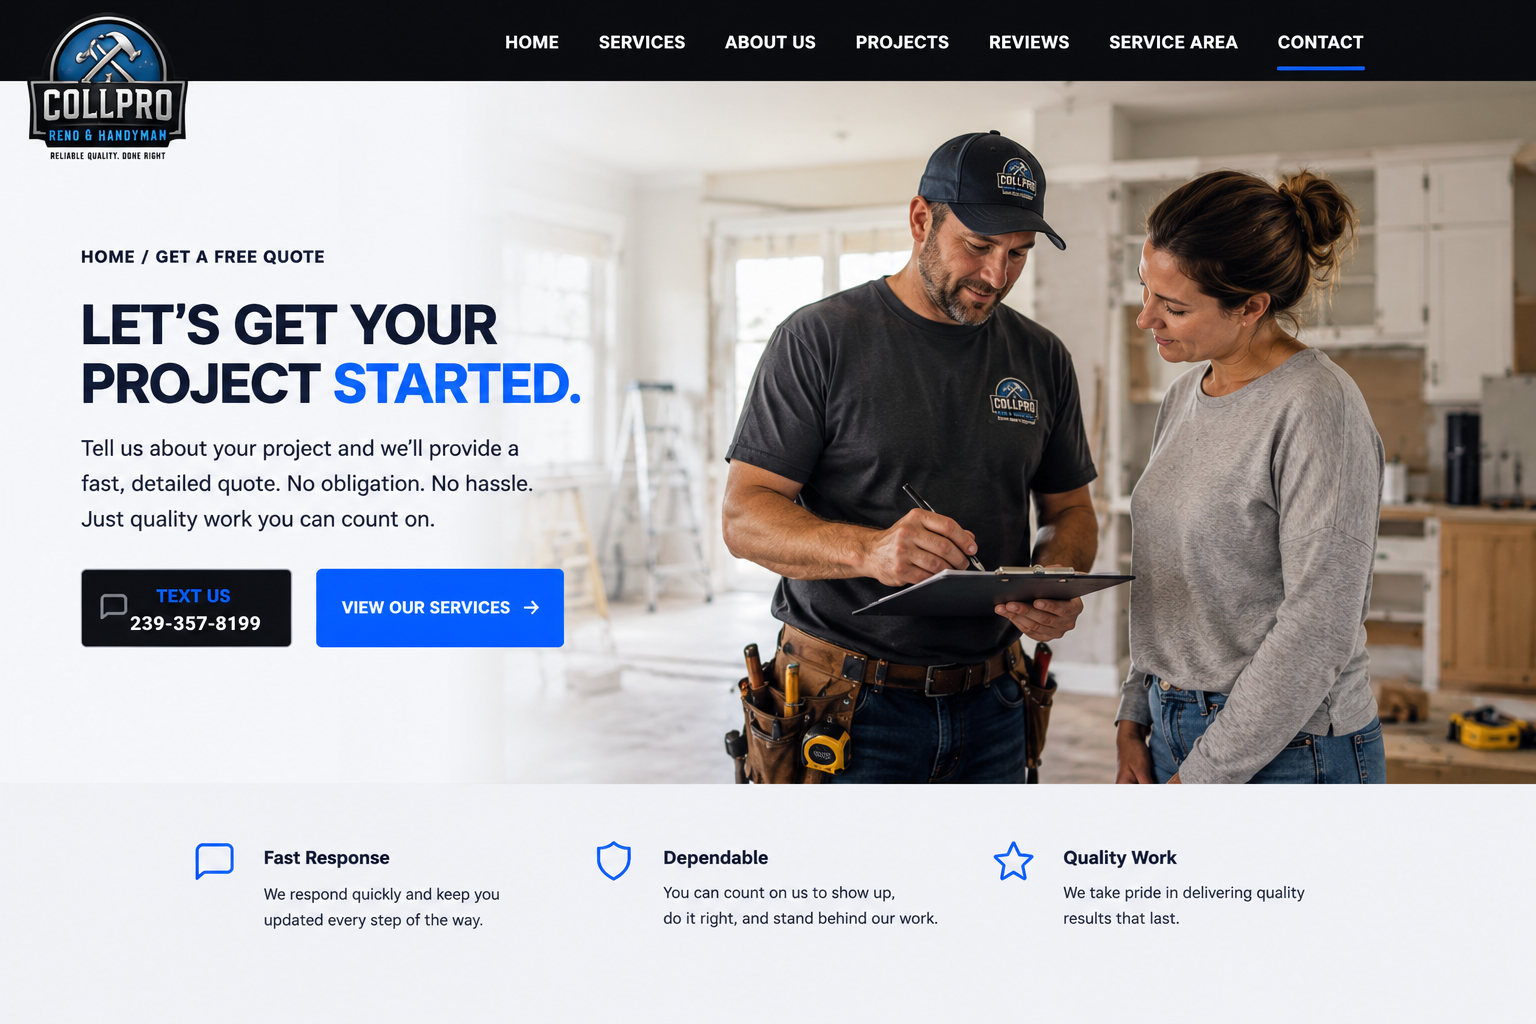
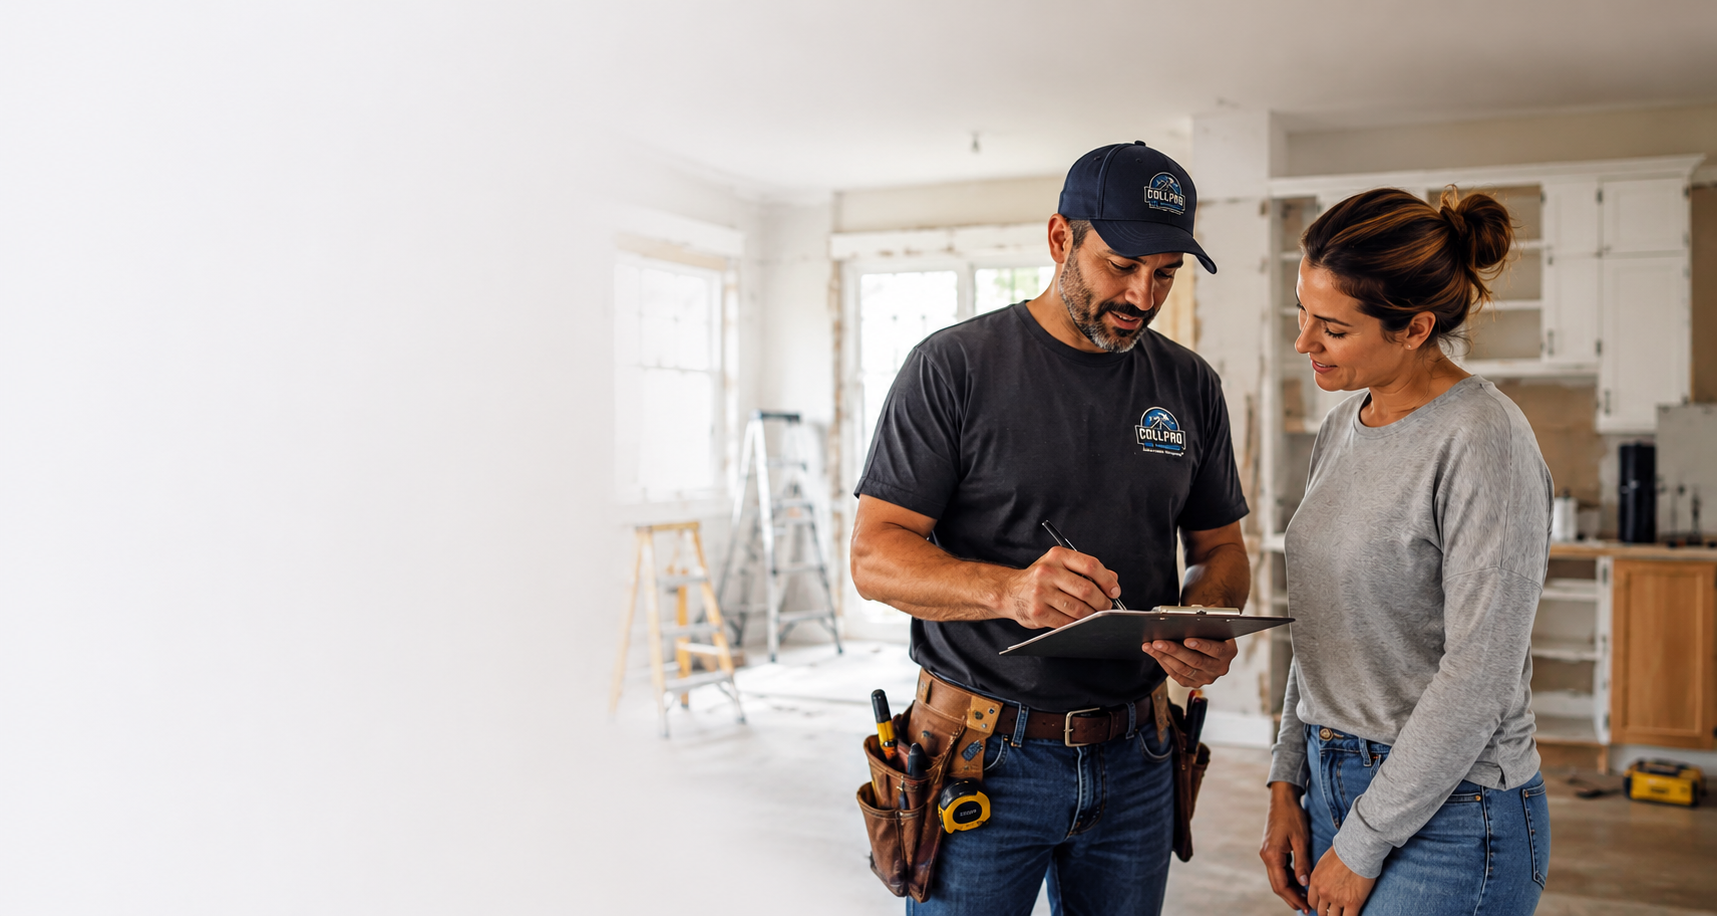
Fit the Request a Quote hero to the attached photo.
Keep the 19.5rem height and scale the exact photo so faces and the clipboard stay visible.

diff --git a/src/components/public/public-site.css b/src/components/public/public-site.css
@@ -373,11 +373,11 @@
   object-fit: fill;
   width: auto !important;
   max-width: none !important;
-  height: 260% !important;
+  height: 175% !important;
   left: auto !important;
   right: 0 !important;
   bottom: auto !important;
-  top: -7.15rem !important;
+  top: -4.5rem !important;
 }
 
 .public-quote-points {
